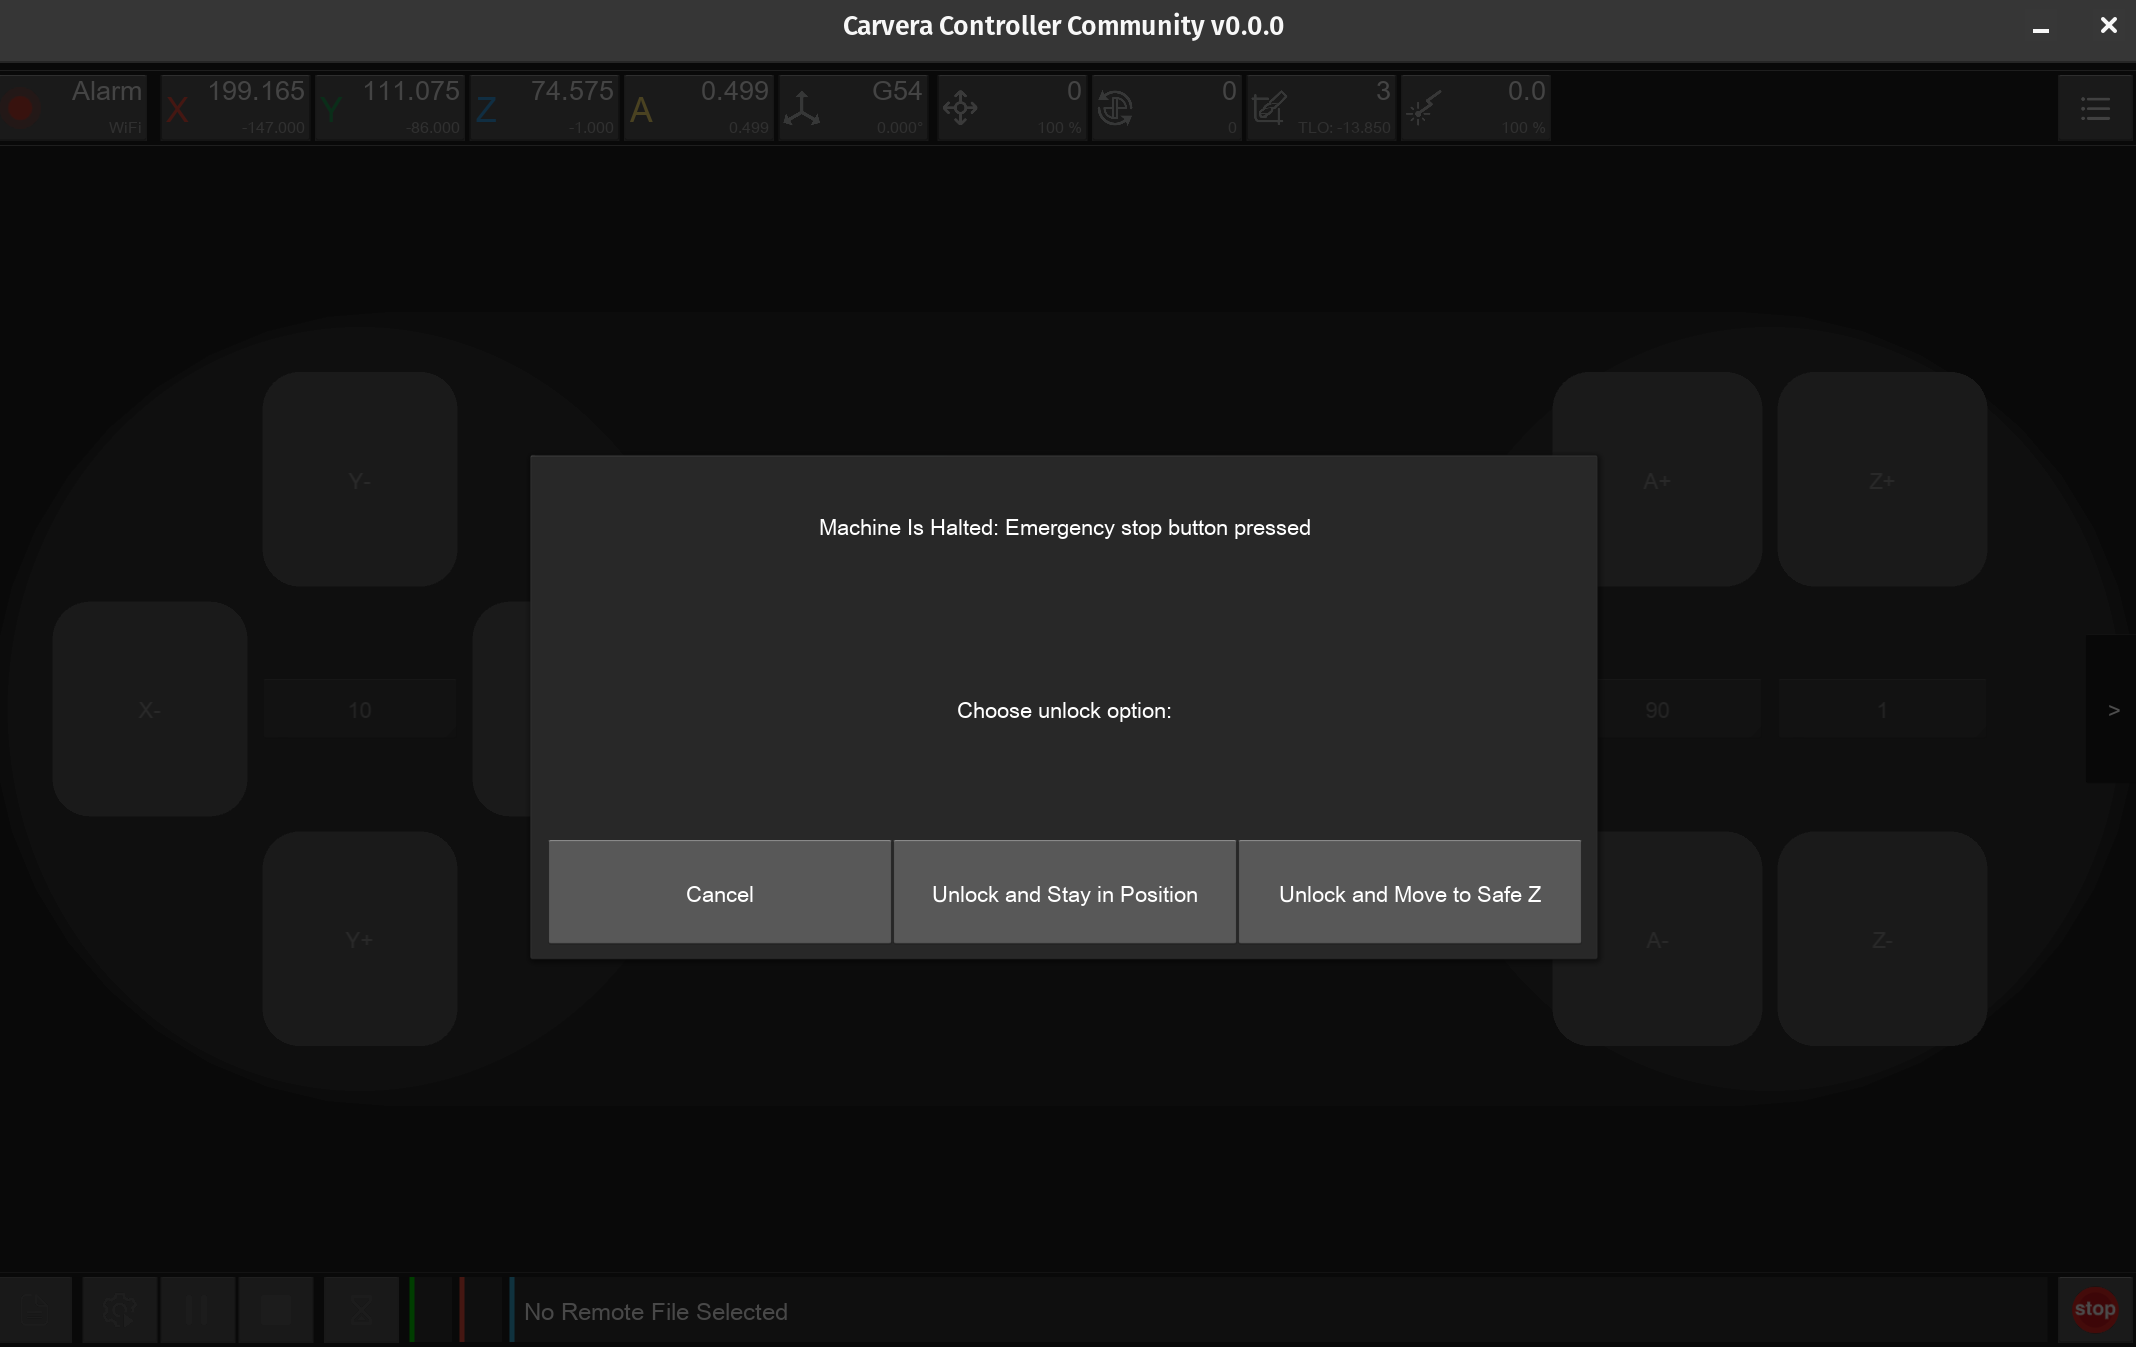
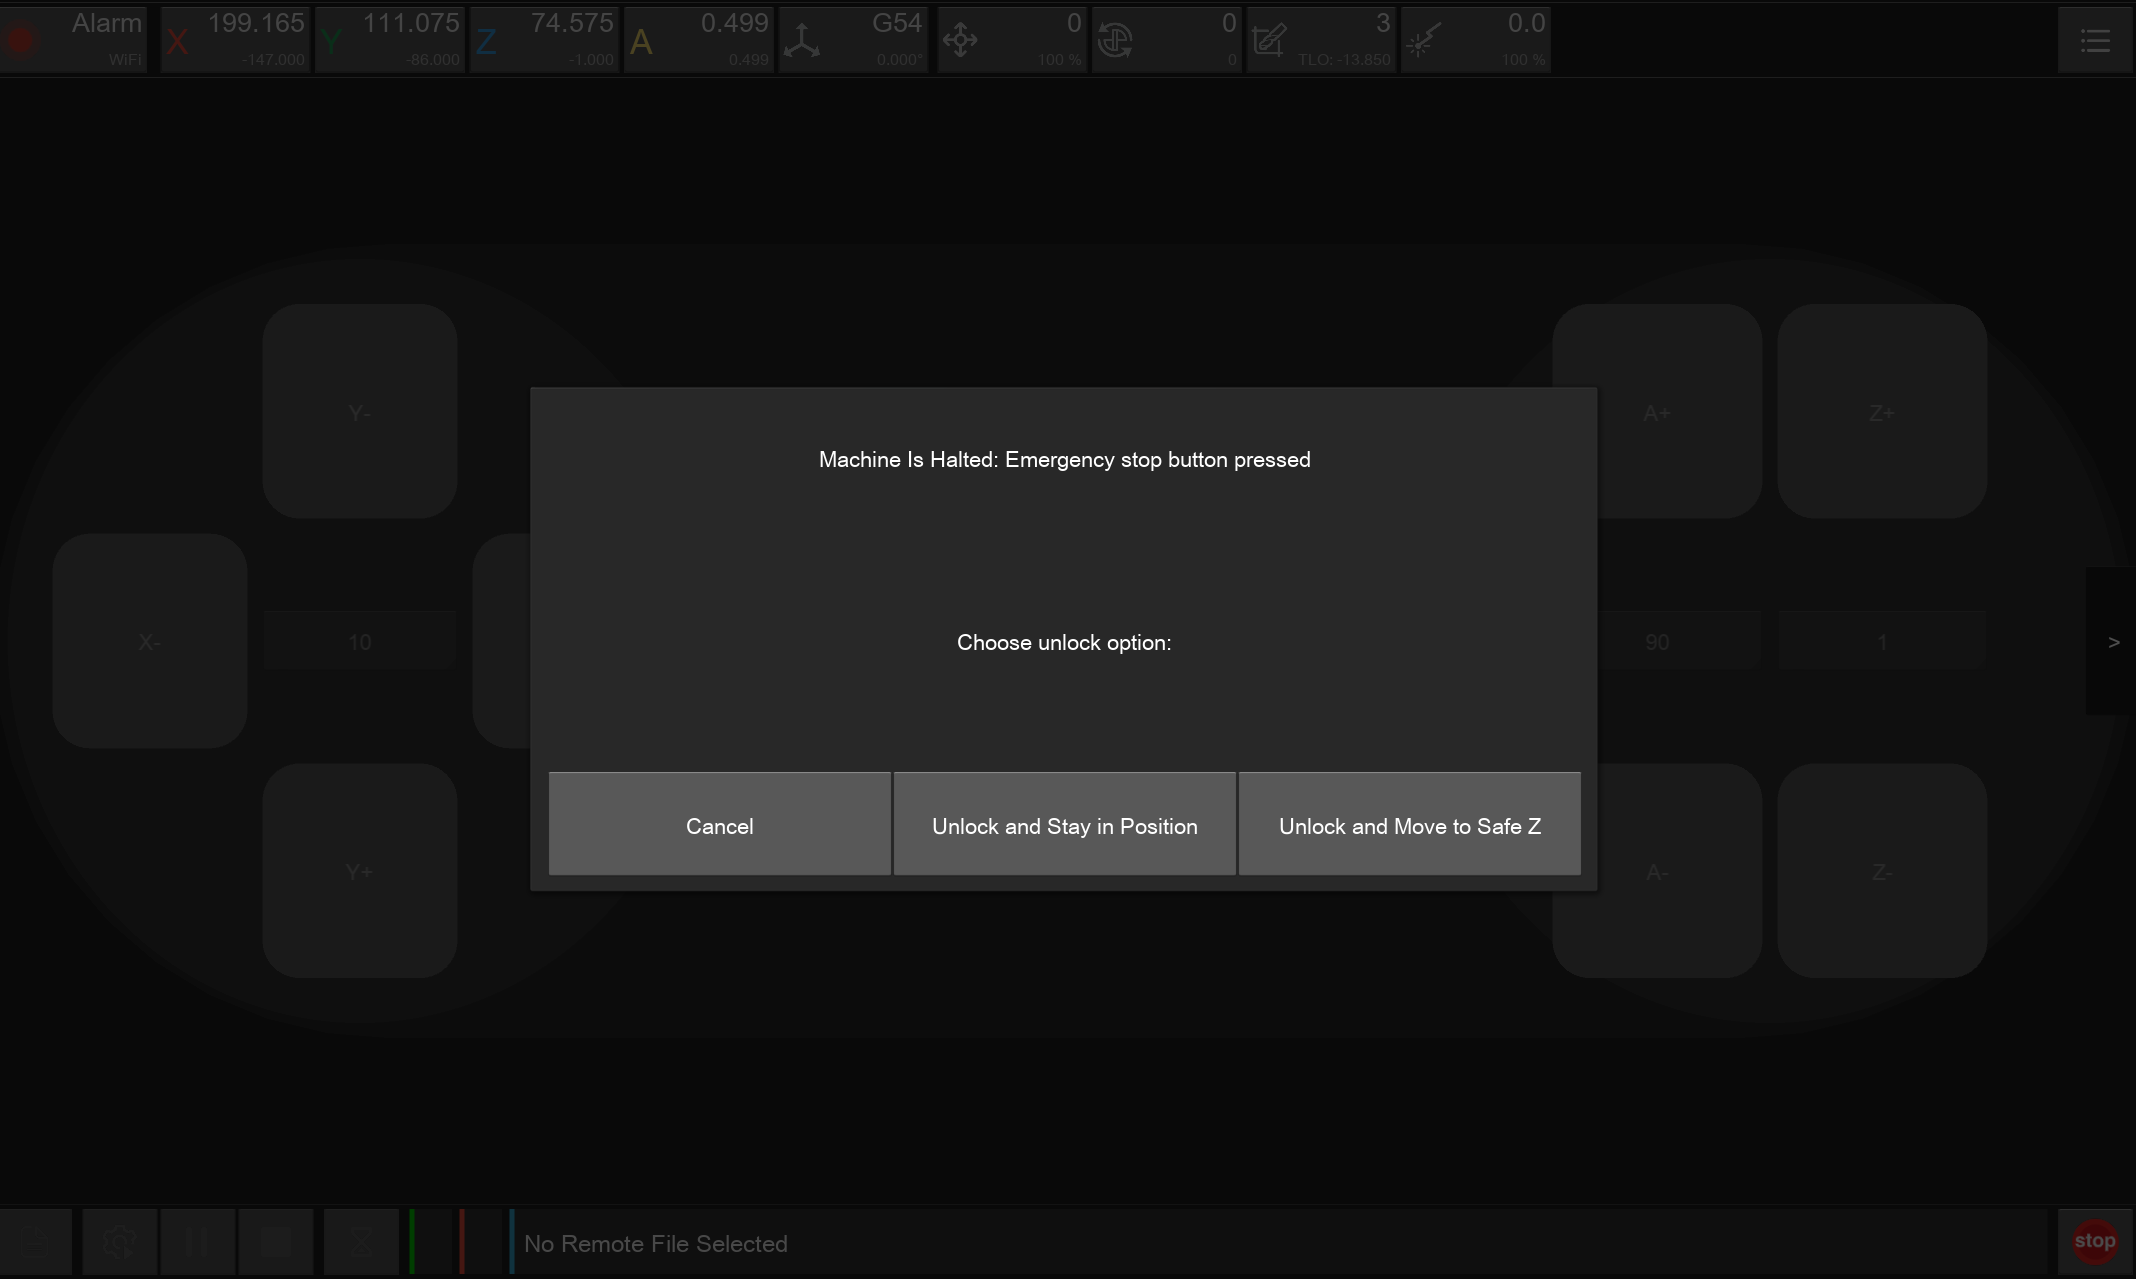
Update CHANGELOG for version 0.10.0

diff --git a/CHANGELOG.md b/CHANGELOG.md
@@ -1,4 +1,4 @@
-[unreleased]
+[0.10.0]
 - Enhancement: Support for controlling the machine via WHB04 pendant devices
 - Enhancement: Added WCS Management functionality. WCS workspace is displayed in top status bar, and can be used to change between different workspaces (G54-G59.3 etc). Note: Community firmware v1.0.3c1.0.7 is required for full functionality. Community firmware v1.0.3c1.0.6 does support editing the offsets but doesn't track manual G5* commands in the MDI. Makera firmware will not persist non-G54 offsets across machine resets.
 - Enhancement: Ability to rotate the WCS workspace. This is done via the WCS Management options. WCS rotation requires Community firmware 1.0.3c.1.0.7 or higher to function
